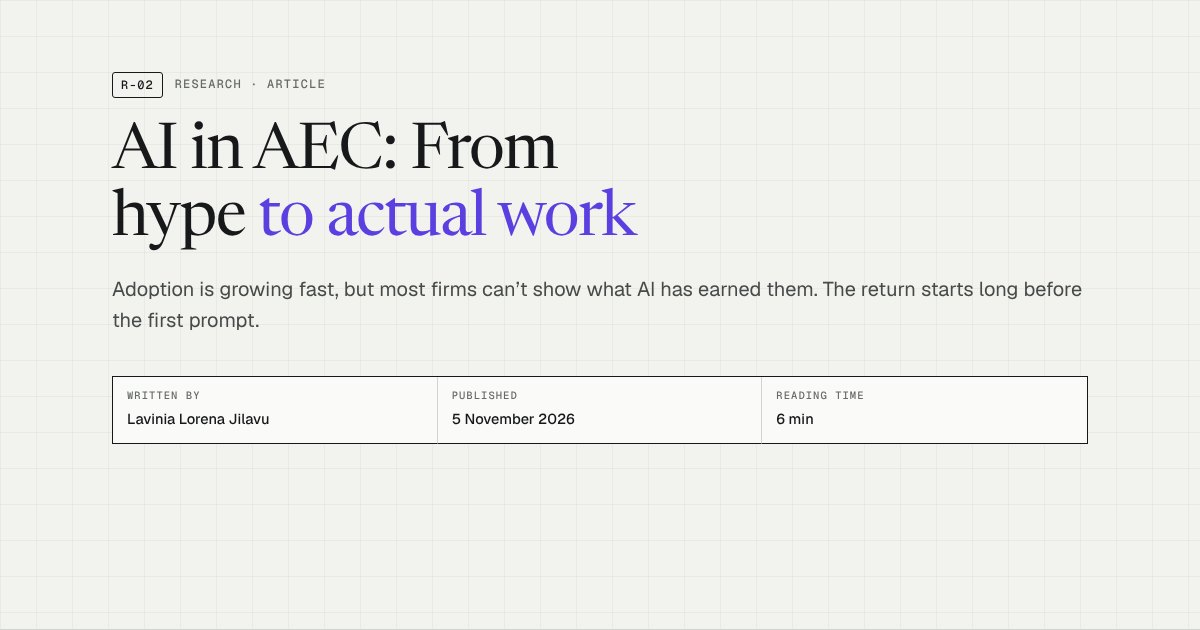
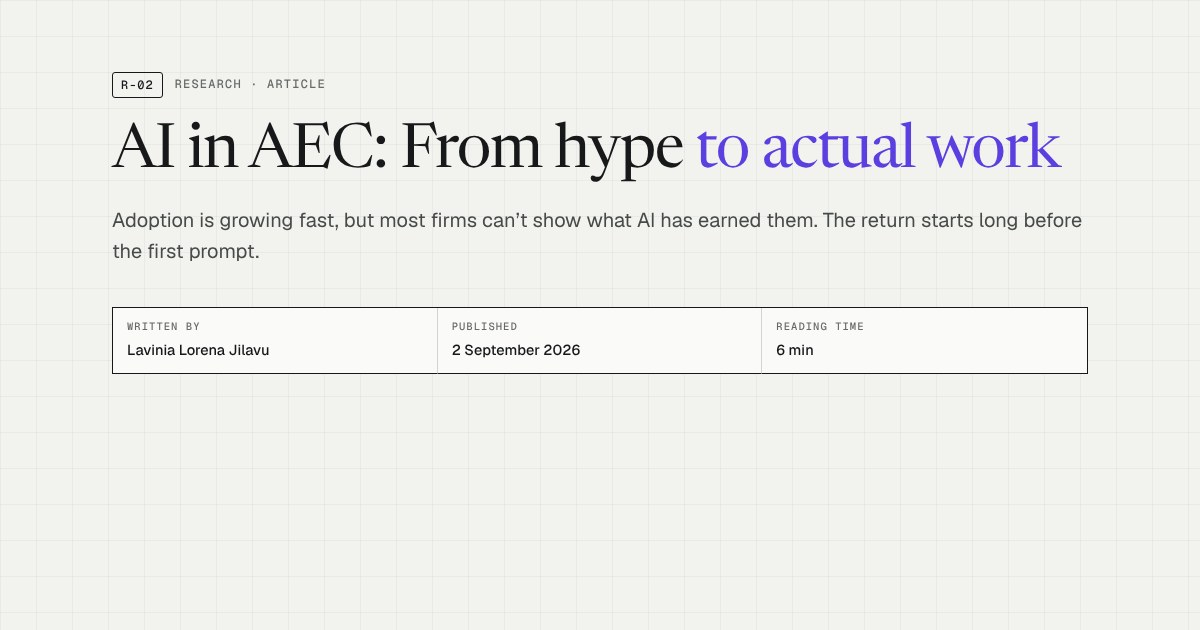
Change R-02 publication date to 2 September 2026
Claude-Session: https://claude.ai/code/session_013tenhEDKmaFaEqJ2x1CGPi

diff --git a/article.html b/article.html
@@ -10,7 +10,7 @@
 <meta property="og:type" content="article">
 <meta property="og:title" content="AI in AEC: From hype to actual work">
 <meta property="og:description" content="Why AI adoption stalls in small and mid-sized AEC firms, and why the real return starts with data and governance.">
-<meta property="article:published_time" content="2026-11-05">
+<meta property="article:published_time" content="2026-09-02">
 <link rel="preconnect" href="https://fonts.googleapis.com">
 <link rel="preconnect" href="https://fonts.gstatic.com" crossorigin>
 <link rel="stylesheet" href="https://fonts.googleapis.com/css2?family=Geist:wght@400;500;600&family=Geist+Mono:wght@400;500&family=Newsreader:ital,opsz,wght@0,6..72,400;0,6..72,500;1,6..72,400&display=swap">
@@ -114,7 +114,7 @@ figure.chart { margin: 1.8em 0; padding: 24px; border: 1px solid var(--line); bo
 <meta property="og:image:alt" content="AI in AEC: From hype to actual work">
 <meta name="twitter:image" content="https://laai4aec.netlify.app/assets/og-article.jpg">
 <meta name="twitter:card" content="summary_large_image">
-<script type="application/ld+json">{"@context": "https://schema.org", "@type": "Article", "headline": "AI in AEC: From hype to actual work", "description": "Why AI adoption stalls in small and mid-sized architecture, engineering and construction firms, and why the real return starts with data and governance.", "datePublished": "2026-11-05", "inLanguage": "en", "author": {"@type": "Person", "name": "Lavinia Lorena Jilavu", "url": "https://laai4aec.netlify.app/"}, "image": "https://laai4aec.netlify.app/assets/og-article.jpg", "mainEntityOfPage": "https://laai4aec.netlify.app/article.html", "publisher": {"@type": "Organization", "name": "LAAI – AI for construction", "url": "https://laai4aec.netlify.app/"}}</script>
+<script type="application/ld+json">{"@context": "https://schema.org", "@type": "Article", "headline": "AI in AEC: From hype to actual work", "description": "Why AI adoption stalls in small and mid-sized architecture, engineering and construction firms, and why the real return starts with data and governance.", "datePublished": "2026-09-02", "inLanguage": "en", "author": {"@type": "Person", "name": "Lavinia Lorena Jilavu", "url": "https://laai4aec.netlify.app/"}, "image": "https://laai4aec.netlify.app/assets/og-article.jpg", "mainEntityOfPage": "https://laai4aec.netlify.app/article.html", "publisher": {"@type": "Organization", "name": "LAAI – AI for construction", "url": "https://laai4aec.netlify.app/"}}</script>
 <!-- Hidden from search engines for now: remove this line (and the X-Robots-Tag header in netlify.toml) to go public -->
 <meta name="robots" content="noindex, nofollow">
 </head>
@@ -137,7 +137,7 @@ figure.chart { margin: 1.8em 0; padding: 24px; border: 1px solid var(--line); bo
     <p class="standfirst">Adoption is growing fast, but most firms can’t show what AI has earned them. The return starts long before the first prompt.</p>
     <dl class="tblock">
       <div><dt>Written by</dt><dd>Lavinia Lorena Jilavu</dd></div>
-      <div><dt>Published</dt><dd><time datetime="2026-11-05">5 November 2026</time></dd></div>
+      <div><dt>Published</dt><dd><time datetime="2026-09-02">2 September 2026</time></dd></div>
       <div><dt>Reading time</dt><dd>6 min</dd></div>
     </dl>
   </div>

diff --git a/index.html b/index.html
@@ -569,7 +569,7 @@ sup.fn a { text-decoration: none; }
     </a>
     <a class="paper" href="article.html">
       <div class="paper-main">
-        <p class="label">R-02 · Article · 5 November 2026 · 6 min read</p>
+        <p class="label">R-02 · Article · 2 September 2026 · 6 min read</p>
         <h3>AI in AEC: From hype to actual work</h3>
         <p>Adoption is growing fast, but most firms can’t show what AI has earned them. Why it stalls in small and mid-sized firms, the prompt-and-pray habit, and why the real return starts with data and governance.</p>
         <span class="go">Read the article →</span>
